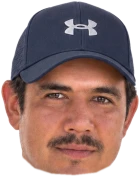
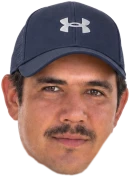
Miguelón: la cara de una barrita, recortada siguiendo la mandíbula; Tito: el putt ultra sensible al dedo
Claude-Session: https://claude.ai/code/session_0189MNUhJPXKQRdhBVoHfR9N

diff --git a/index.html b/index.html
@@ -1512,7 +1512,7 @@ body.apuntando #mago-golpes button { pointer-events: none; }
   </div>
   <button class="volver-app entra" id="volver-app" type="button" hidden style="--i: 4"><svg class="gi" viewBox="0 0 32 32" aria-hidden="true"><g><path d="M26 16H7.5M14.5 8.5L7 16l7.5 7.5" stroke-width="3"/></g></svg>Volver a la SDGApp</button>
   <span id="frase"></span>
-  <span class="version" id="version">v 6e7abd6 · 6/10, 11:09 p. m.</span>
+  <span class="version" id="version">v a2049e6 · 6/10, 11:15 p. m.</span>
 </section>
 
 <section class="mazo" id="elegir" hidden aria-label="Elegí tu nivel de dificultad">
@@ -1702,11 +1702,11 @@ body.apuntando #mago-golpes button { pointer-events: none; }
 </section>
 
 <script type="module">
-import * as M from './motor.js?v=cee83f7954'
-import { PLANTEL as TODOS, EN_PRUEBA, DIFICULTAD_REAL, DEMETRIO, MISTERIOSO, DESBLOQUEO_TAIU } from './plantel.js?v=cee83f7954'
+import * as M from './motor.js?v=38b2f3ca37'
+import { PLANTEL as TODOS, EN_PRUEBA, DIFICULTAD_REAL, DEMETRIO, MISTERIOSO, DESBLOQUEO_TAIU } from './plantel.js?v=38b2f3ca37'
 import { CANCHA } from './cancha-grid.js'
-import * as R from './ranking.js?v=cee83f7954'
-import * as S from './sonido.js?v=cee83f7954'
+import * as R from './ranking.js?v=38b2f3ca37'
+import * as S from './sonido.js?v=38b2f3ca37'
 // los íconos del set SDGA (design system › GameIcon) que se arman desde JS: trazo, papel y acento por CSS (--gi-s/-f/-a)
 const GI = {"match": "<path d=\"M7.5 4.5L22 23.5M24.5 4.5L10 23.5\"/><path d=\"M7.5 4.5l2 2.6M24.5 4.5l-2 2.6\" stroke-width=\"5\"/><rect x=\"19.5\" y=\"22\" width=\"8\" height=\"4\" rx=\"2\" style=\"fill:var(--gi-a)\"/><rect x=\"4.5\" y=\"22\" width=\"8\" height=\"4\" rx=\"2\" style=\"fill:var(--gi-a)\"/><circle cx=\"16\" cy=\"24.5\" r=\"2.5\" style=\"fill:var(--gi-f)\"/>", "challenge": "<circle cx=\"14\" cy=\"18\" r=\"10\" style=\"fill:var(--gi-f)\"/><circle cx=\"14\" cy=\"18\" r=\"5.5\" style=\"fill:var(--gi-a)\"/><circle cx=\"14\" cy=\"18\" r=\"1.8\" style=\"fill:var(--gi-s)\" stroke=\"none\"/><path d=\"M14 18L25 7\"/><path d=\"M25 3.5V7h3.5\"/>", "bell": "<path d=\"M16 5.5v2\"/><path d=\"M13.5 25a2.7 2.7 0 0 0 5 0\"/><path d=\"M8 22.5c1.5-1.5 2-3.5 2-6.5v-2a6 6 0 0 1 12 0v2c0 3 .5 5 2 6.5z\" style=\"fill:var(--gi-a)\"/>", "calendar": "<rect x=\"5\" y=\"7\" width=\"22\" height=\"20\" rx=\"3\" style=\"fill:var(--gi-f)\"/><path d=\"M5 13V10a3 3 0 0 1 3-3h16a3 3 0 0 1 3 3v3z\" style=\"fill:var(--gi-a)\"/><path d=\"M11 4.5v5M21 4.5v5\"/><rect x=\"9.5\" y=\"17\" width=\"4.5\" height=\"4\" rx=\"1\" style=\"fill:var(--gi-s)\" stroke=\"none\"/>", "ranking": "<rect x=\"4.5\" y=\"15.5\" width=\"7.5\" height=\"11.5\" rx=\"1\" style=\"fill:var(--gi-f)\"/><rect x=\"20\" y=\"18.5\" width=\"7.5\" height=\"8.5\" rx=\"1\" style=\"fill:var(--gi-f)\"/><rect x=\"12\" y=\"9.5\" width=\"8\" height=\"17.5\" rx=\"1\" style=\"fill:var(--gi-a)\"/><path d=\"M14.8 14l1.7-1.2v6\" stroke-width=\"2.2\"/>", "trophy": "<path d=\"M10 8H6.5v1.5a4 4 0 0 0 4 4M22 8h3.5v1.5a4 4 0 0 1-4 4\"/><path d=\"M16 17.5v4\"/><path d=\"M11 26.5h10l-1-5h-8z\" style=\"fill:var(--gi-f)\"/><path d=\"M10 5.5h12v6a6 6 0 0 1-12 0z\" style=\"fill:var(--gi-a)\"/>", "friends": "<circle cx=\"21\" cy=\"10.5\" r=\"4.5\" style=\"fill:var(--gi-a)\"/><path d=\"M14 25a7.5 7.5 0 0 1 15 0z\" style=\"fill:var(--gi-a)\"/><circle cx=\"12\" cy=\"12.5\" r=\"5\" style=\"fill:var(--gi-f)\"/><path d=\"M3.5 27a8.5 8.5 0 0 1 17 0z\" style=\"fill:var(--gi-f)\"/>", "flag": "<ellipse cx=\"16\" cy=\"25.5\" rx=\"10\" ry=\"3\" style=\"fill:var(--gi-f)\"/><ellipse cx=\"12\" cy=\"25.5\" rx=\"2.4\" ry=\"1\" style=\"fill:var(--gi-s)\" stroke=\"none\"/><path d=\"M12 25.5V4.5\"/><path d=\"M12 5l12 4.5L12 14z\" style=\"fill:var(--gi-a)\"/>", "close": "<path d=\"M9 9l14 14M23 9L9 23\" stroke-width=\"3.5\"/>", "star": "<path d=\"M16 4.5l3.4 7 7.6 1.1-5.5 5.3 1.3 7.6L16 21.9l-6.8 3.6 1.3-7.6L5 12.6l7.6-1.1z\" style=\"fill:var(--gi-a)\"/>", "user": "<circle cx=\"16\" cy=\"11\" r=\"5.5\" style=\"fill:var(--gi-f)\"/><path d=\"M6 27a10 10 0 0 1 20 0z\" style=\"fill:var(--gi-a)\"/>"}
 const gi = (n, clase = '') => `<svg class="gi${clase ? ' ' + clase : ''}" viewBox="0 0 32 32" aria-hidden="true"><g>${GI[n]}</g></svg>`
@@ -1988,9 +1988,17 @@ function apunte() {
   let u = len / drag.largo
   // Taiu (la Rana): los controles al revés: empuja (la pelota sale para donde va el dedo); la fuerza, igual
   if (M.alReves(ronda.jugador)) ({ px, py, u } = M.invertirArrastre(px, py, u))
-  const p = Math.min(1, Math.pow(u, putt ? 1.6 : 1.35))
   const [wx, wy] = s2wVec(px, py)
-  const ang = Math.atan2(wy, wx)
+  let ang = Math.atan2(wy, wx)
+  let p = Math.min(1, Math.pow(u, putt ? 1.6 : 1.35))
+  // Tito en el green: el putt es ultra sensible al dedo (cualquier milímetro cambia la línea y la fuerza)
+  if (putt && M.habilidadDe(ronda.jugador)?.id === 'viento') {
+    const pin = M.hoyoActual(ronda).pin, b = ronda.pelota
+    // la fuerza cuenta desde que el dedo arranca (si no, los 8 px de arranque ya eran un putt de 2 yardas)
+    const t = M.puttDeTito(ang, (len - 8) / drag.largo, Math.atan2(pin[1] - b[1], pin[0] - b[0]))
+    ang = t.ang
+    p = Math.min(1, Math.pow(t.u, 1.6))
+  }
   let q = 0
   const tiempo = (performance.now() - drag.t0) / 1000 // el Águila: la línea se sacude con el tiempo
   let plan = M.planTiro(campo, ronda, ang, p, 0, tiempo)

diff --git a/motor.js b/motor.js
@@ -100,7 +100,7 @@ export const MONO = { vel: 18, pausa: 3, radio: 3.2, altura: 8, velCaza: 12, ale
 export const HABILIDADES = {
   'El Mago Rodal': { id: 'comba', adulado: true, nombre: 'Golpes de mago', texto: 'Nunca derecho: antes de cada golpe elegís cuál (Flop, Baby Draw, Una cortada al medio o el Dibuje maestro, que dibujás con el dedo). En el green, putt con draw o con fade.' },
   'Mike Queboni (Đ)': { id: 'bomba', corto: 'Desde el tee, la bomba al green.',  nombre: 'Drive al green', texto: 'A fondo desde el tee el óvalo late: soltá cuando está más chico y llega al green. Ojo con la furia: si no pega la calle con el primero, no llega al green con el segundo o hace bogey, la barra se llena de a media. Llena, revolea el palo y el próximo tiro sale para cualquier lado.' },
-  Tito: { id: 'viento', corto: 'Maneja el viento en vivo.', nombre: 'Tranqui, yo lo suspendo', texto: 'Tito Esperanza maneja el viento en vivo: mientras la pelota vuela, cada swipe en la pantalla es una ráfaga para ese lado (más largo, más fuerte) y la pelota se va para ahí. Las ráfagas se suman y se calman solas.' },
+  Tito: { id: 'viento', corto: 'Maneja el viento en vivo.', nombre: 'Tranqui, yo lo suspendo', texto: 'Tito Esperanza maneja el viento en vivo: mientras la pelota vuela, cada swipe en la pantalla es una ráfaga para ese lado (más largo, más fuerte) y la pelota se va para ahí. Las ráfagas se suman y se calman solas. Eso sí: en el green el putt es ultra sensible, un milímetro del dedo cambia la línea y la fuerza.' },
   Mapache: { id: 'caos', corto: 'Le pega increíble… si no aparece algo.', nombre: 'Tiros increíbles (y la mala suerte)', texto: 'Juanpa Pielach le pega increíble: la mitad del error. Pero cada tiro fuera del green, una de dos veces aparece algo: un árbol que la frena en el aire, una ráfaga que la corre o un carrito que viene de costado, se la lleva y la deja más allá. Antes de pegar ves lo que se viene (y para qué lado), y después de una sorpresa el próximo sale limpio.' },
   'El Sueco': { id: 'derecho', corto: 'El drive con pulso; después, la flecha.', nombre: 'La flecha', texto: 'El drive, con el pulso de Fito: la línea se sacude y si soltás en el embudo sale derecha. Desde el segundo tiro, una flecha: va derecho y atraviesa todo, hasta los árboles. El putt, derecho.' },
   'Fito (Đ)': { id: 'aguila', corto: 'El embudo y el chip in: cerca del green, la mete.',  nombre: 'Chip in', texto: 'Drive y hierros con el pulso a mil: soltá en el embudo y sale derecha. Cerca del green, imán: si la chipeás al green, entra.' },
@@ -603,6 +603,16 @@ export function vientoAleatorio(rng) {
 // ráfaga se calma sola: el viento se apaga con constante `calma` segundos (2026-10-07: antes era un joystick)
 export const TITO = { tiempo: 1.45, fuerza: 2, calma: 0.9 }
 const vientoDe = (v) => ({ ang: Math.atan2(v.wy, v.wx), kmh: Math.hypot(v.wx, v.wy) })
+// Tito, en el green: el putt es ultra sensible al dedo. Lo que el dedo se corre de la línea al hoyo se multiplica por
+// `angulo` (y si no apuntás justo al hoyo, la línea se va enseguida para cualquier lado), y a fondo se llega
+// arrastrando 1/`fuerza` de lo normal (un milímetro de más y se pasa de largo)
+export const TITO_PUTT = { angulo: 7, fuerza: 4 }
+/** El putt de Tito: el ángulo y la fuerza (0..1+, arrastre / largo) que da el dedo, amplificados. `ref` es el ángulo al hoyo. */
+export function puttDeTito(ang, u, ref) {
+  const d = Math.atan2(Math.sin(ang - ref), Math.cos(ang - ref))
+  const k = Math.max(-Math.PI, Math.min(Math.PI, d * TITO_PUTT.angulo))
+  return { ang: ref + k, u: u * TITO_PUTT.fuerza }
+}
 /** Tito, en el aire: el viento pasa a ser este (y con él, para dónde se va la pelota que vuela). */
 export function soplarEnVivo(r, tiro, ang, kmh) {
   if (!controlarViento(r, ang, kmh)) return false

diff --git a/juego.html b/juego.html
@@ -1972,9 +1972,17 @@ function apunte() {
   let u = len / drag.largo
   // Taiu (la Rana): los controles al revés: empuja (la pelota sale para donde va el dedo); la fuerza, igual
   if (M.alReves(ronda.jugador)) ({ px, py, u } = M.invertirArrastre(px, py, u))
-  const p = Math.min(1, Math.pow(u, putt ? 1.6 : 1.35))
   const [wx, wy] = s2wVec(px, py)
-  const ang = Math.atan2(wy, wx)
+  let ang = Math.atan2(wy, wx)
+  let p = Math.min(1, Math.pow(u, putt ? 1.6 : 1.35))
+  // Tito en el green: el putt es ultra sensible al dedo (cualquier milímetro cambia la línea y la fuerza)
+  if (putt && M.habilidadDe(ronda.jugador)?.id === 'viento') {
+    const pin = M.hoyoActual(ronda).pin, b = ronda.pelota
+    // la fuerza cuenta desde que el dedo arranca (si no, los 8 px de arranque ya eran un putt de 2 yardas)
+    const t = M.puttDeTito(ang, (len - 8) / drag.largo, Math.atan2(pin[1] - b[1], pin[0] - b[0]))
+    ang = t.ang
+    p = Math.min(1, Math.pow(t.u, 1.6))
+  }
   let q = 0
   const tiempo = (performance.now() - drag.t0) / 1000 // el Águila: la línea se sacude con el tiempo
   let plan = M.planTiro(campo, ronda, ang, p, 0, tiempo)

diff --git a/SPEC.md b/SPEC.md
@@ -346,7 +346,7 @@ Sonido, fotos (van emojis; en la app usa `PlayerAvatar`), match en el mismo celu
 
 ## 🌬 Tito Esperanza maneja el viento (2026-10-07)
 
-- Entra al mazo Tito (HCP 16, 🌬, su foto de la base). Habilidad "Tranqui, yo lo suspendo" (`viento`): maneja el viento **en vivo, a swipes**. Mientras la pelota vuela, cada swipe en cualquier parte de la pantalla es una ráfaga para ese lado (`rafagaTito`): más largo el swipe, más fuerte (hasta 30 km/h). Las ráfagas se suman (con tope de 30) y se calman solas (`TITO.calma` = 0,9 s), así que se maneja la pelota con varios swipes. La pelota en el aire le hace caso al momento: la deriva se va sumando con el viento de cada instante (`tiro.vivo`) y lo mueve `TITO.fuerza` (2) yardas por km/h en un tiro largo, parejo con el largo (también en los approach). Su vuelo dura un 45% más, para que dé tiempo. Abajo aparece el cartel "SWIPEÁ PARA SOPLAR" y cada ráfaga se dibuja en la pelota (las mismas líneas de viento que la de Juanpa); el viento de arriba muestra el de cada momento.
+- Entra al mazo Tito (HCP 16, 🌬, su foto de la base). Habilidad "Tranqui, yo lo suspendo" (`viento`): maneja el viento **en vivo, a swipes**. Mientras la pelota vuela, cada swipe en cualquier parte de la pantalla es una ráfaga para ese lado (`rafagaTito`): más largo el swipe, más fuerte (hasta 30 km/h). Las ráfagas se suman (con tope de 30) y se calman solas (`TITO.calma` = 0,9 s), así que se maneja la pelota con varios swipes. La pelota en el aire le hace caso al momento: la deriva se va sumando con el viento de cada instante (`tiro.vivo`) y lo mueve `TITO.fuerza` (2) yardas por km/h en un tiro largo, parejo con el largo (también en los approach). Su vuelo dura un 45% más, para que dé tiempo. Abajo aparece el cartel "SWIPEÁ PARA SOPLAR" y cada ráfaga se dibuja en la pelota (las mismas líneas de viento que la de Juanpa); el viento de arriba muestra el de cada momento. En el green, en cambio, el putt de Tito es **ultra sensible al dedo** (`puttDeTito`, `TITO_PUTT`): lo que el dedo se corre de la línea al hoyo se multiplica ×7 (3 px de dedo son unos 30°) y la fuerza ×4, contada desde que el dedo arranca (3 px de más son ~3 yardas). Es solo del control con el dedo: los bots de `calibrar.mjs` no lo sienten.
 - 2026-10-07: primero fue un dial antes de pegar, después un joystick en vuelo; Rorro lo prefirió a swipes, directo en la pantalla.
 - El bot apaga el viento antes de cada tiro. Dificultad medida (20 vueltas): +3,9 (Trampa total, por el HCP 16).
 
